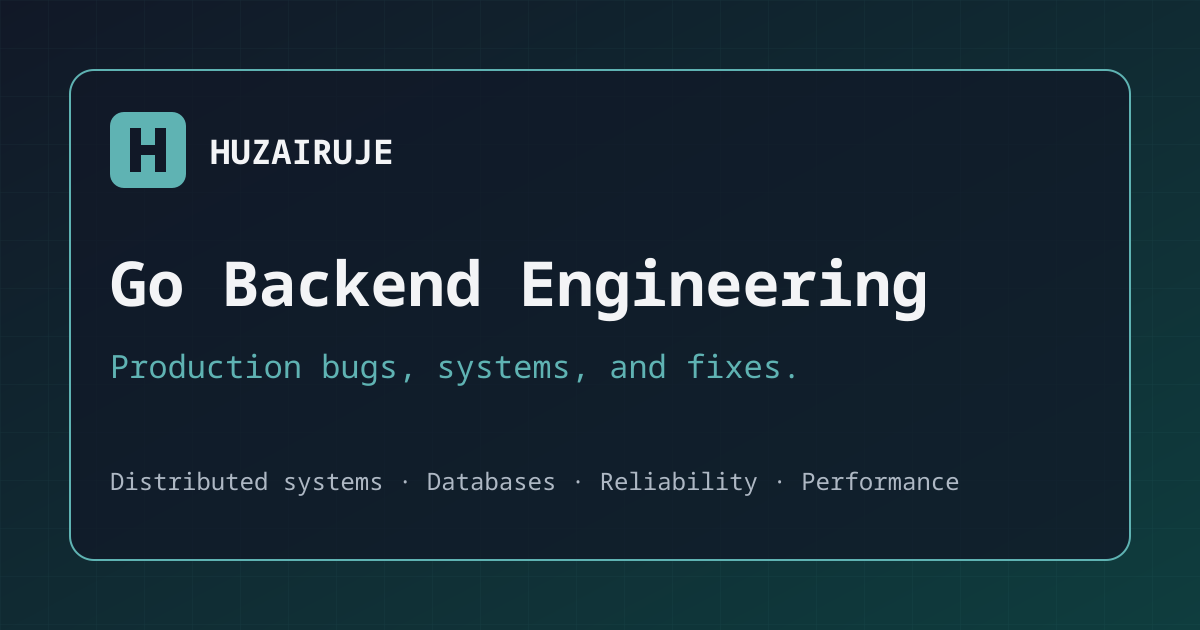
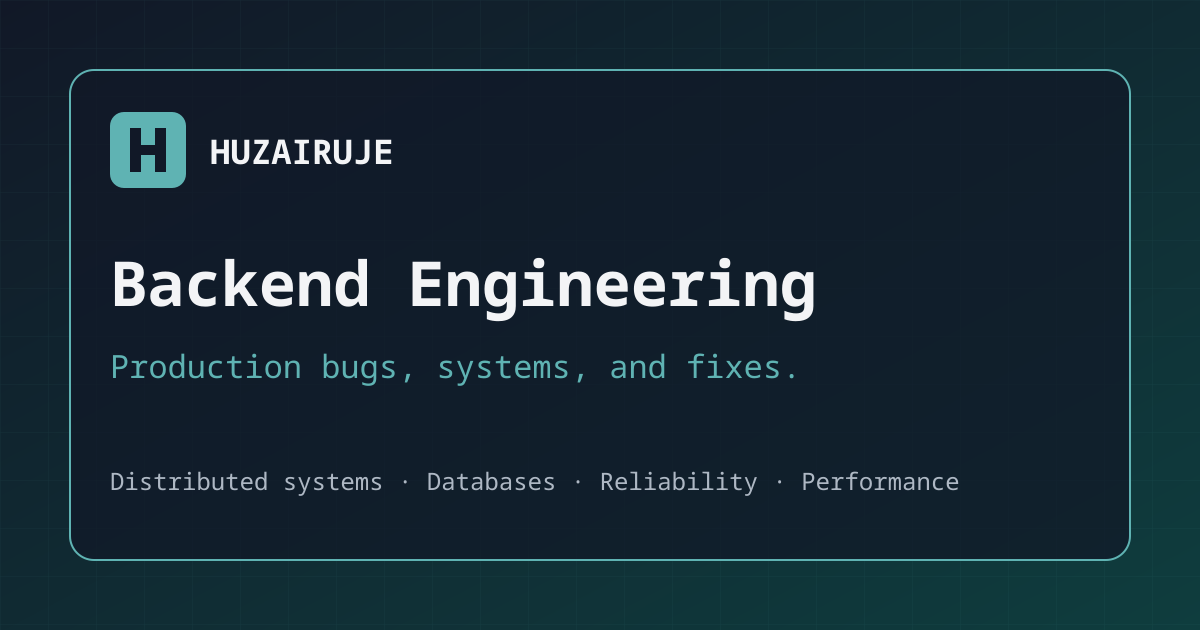
broaden site branding and fix navigation

Changed region(s): [[0.0925, 0.3921, 0.4625, 0.5127], [0.4933, 0.3921, 0.7708, 0.5127]]

diff --git a/_includes/header.html b/_includes/header.html
@@ -2,7 +2,7 @@
 
   <div class="wrapper">
     {%- assign default_paths = site.pages | map: "path" -%}
-    {%- assign page_paths = site.header_pages | default: default_paths -%}
+    {%- assign page_paths = site.minima.header_pages | default: default_paths -%}
     <a class="site-title" rel="author" href="{{ "/" | relative_url }}">Home</a>
 
     {%- if page_paths -%}
